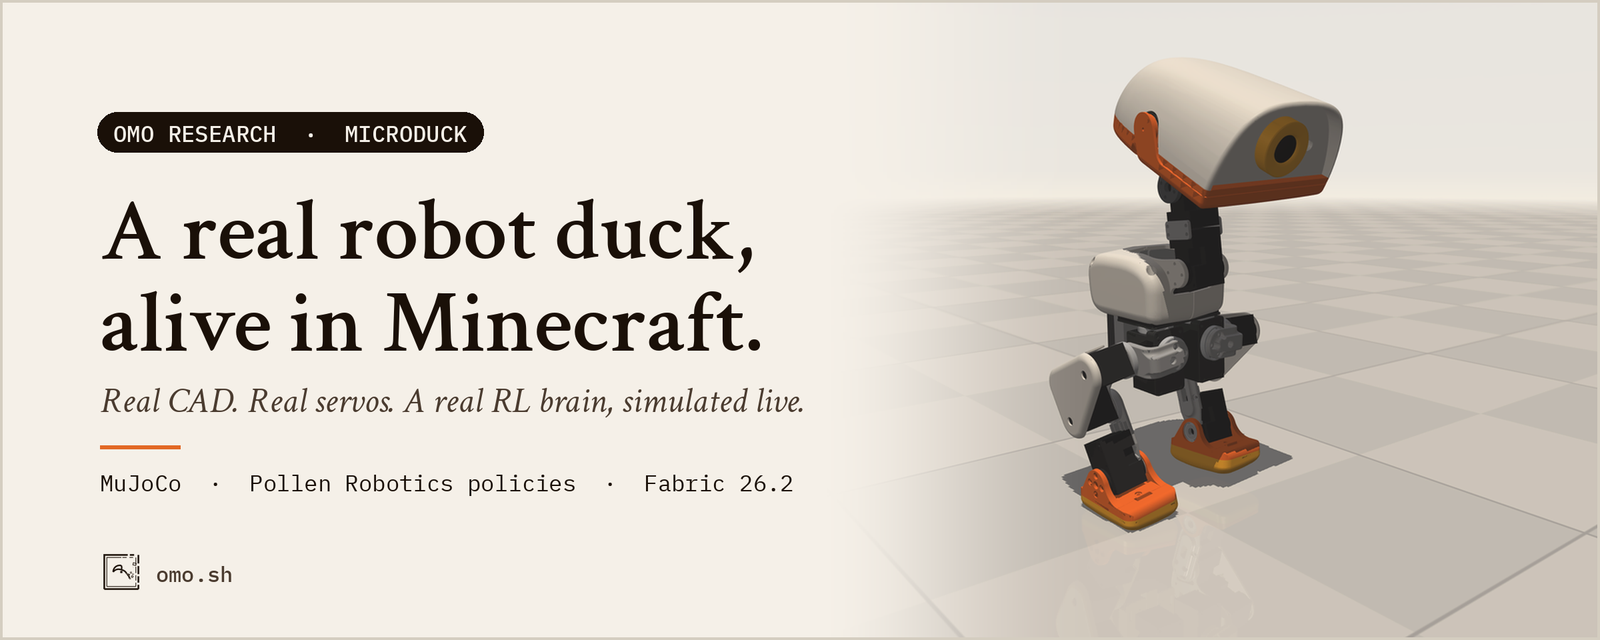
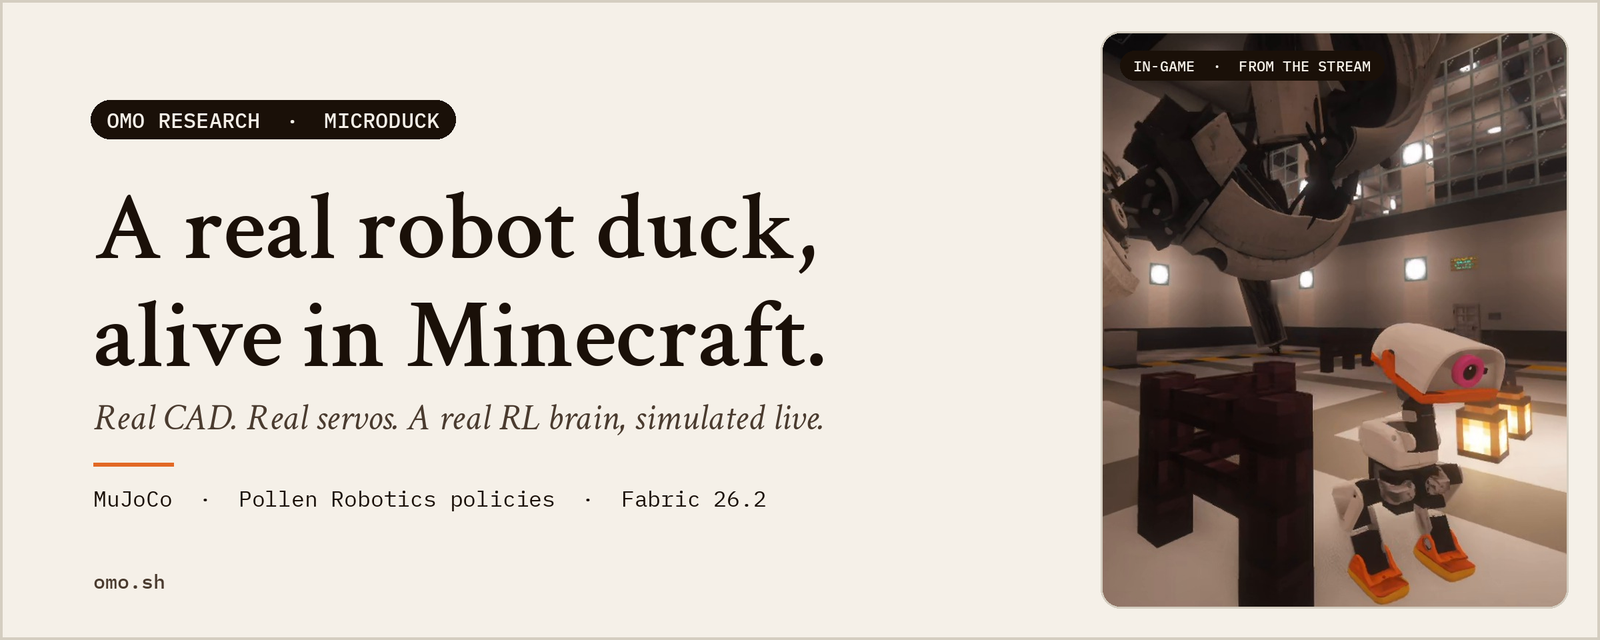
docs: reel-led README with light/dark hero and branded buttons
- hero rebuilt from a real in-game frame (secret-lab stream), with a
  dark-theme variant via <picture>
- 'Straight from the stream': three silent loops of approved reels
  (secret lab, stairs, batcave), each linked to the full reel on the
  v1.0.0 release and to Instagram
- CTA buttons in light and dark variants (omo-space family style)
- sim GIFs moved under 'What it does' and labelled as the bare sim

diff --git a/docs/media/make_hero.py b/docs/media/make_hero.py
@@ -1,14 +1,16 @@
-"""Compose docs/media/hero.png from the real MuJoCo render (still-hero.png).
+"""Compose the README hero (light + dark) from a real in-game frame.
 
-The duck is the offscreen render of the actual Pollen Microduck model; this
-script only crops it, warms it into the omo.sh palette and sets the type.
+The picture is reel-lab-still.jpg: an unedited frame of the Microduck flock in
+the Omo Space duck lab, taken from the stream recording behind the "secret lab"
+reel, cropped clear of the face cam, chat, hotbar and held item, with the
+crosshair removed. This script only frames it and sets the type.
 Fonts: Crimson Text + IBM Plex Mono (SIL OFL). Run from the repo root:
-    python3 docs/media/make_hero.py [path/to/fonts] [path/to/omo-mark.png]
+    python3 docs/media/make_hero.py path/to/fonts [path/to/omo-mark.png]
 """
 import sys
 from pathlib import Path
 
-from PIL import Image, ImageDraw, ImageFont, ImageChops
+from PIL import Image, ImageDraw, ImageFont
 
 HERE = Path(__file__).resolve().parent
 FONTS = Path(sys.argv[1]) if len(sys.argv) > 1 else HERE / "fonts"
@@ -22,75 +24,81 @@ SAND = (196, 184, 168)
 ORANGE = (226, 104, 36)
 
 W, H = 2400, 960
+PAD = 48
+THEMES = {
+    "light": dict(bg=CREAM, fg=INK, sub=BROWN, pill_bg=INK, pill_fg=CREAM, frame=LINE),
+    "dark": dict(bg=(18, 12, 7), fg=CREAM, sub=SAND, pill_bg=CREAM, pill_fg=INK, frame=BROWN),
+}
 
 
 def font(name, size):
     return ImageFont.truetype(str(FONTS / name), size)
 
 
-def main():
-    img = Image.new("RGB", (W, H), CREAM)
+def smooth(t):
+    return t * t * (3 - 2 * t)
 
-    # Real render: crop around the duck and fit it to the right 56 % of the banner.
-    src = Image.open(HERE / "still-hero.png").convert("RGB")
-    crop = src.crop((250, 20, 1110, 720))  # 860 x 700
-    rh = H
-    rw = round(crop.width * rh / crop.height)
-    duck = crop.resize((rw, rh), Image.LANCZOS)
-    # Warm the cool studio sky/floor towards the cream paper (multiply-ish tint).
-    warm = Image.new("RGB", duck.size, (255, 246, 232))
-    duck = ImageChops.multiply(duck, warm)
-    duck = Image.blend(duck, Image.new("RGB", duck.size, CREAM), 0.10)
 
-    x0 = W - rw
-    # Horizontal fade into the paper on the left edge of the render.
-    mask = Image.new("L", duck.size, 255)
-    md = ImageDraw.Draw(mask)
-    fade = 420
-    for x in range(fade):
-        t = x / fade
-        md.line([(x, 0), (x, rh)], fill=round(255 * (t * t * (3 - 2 * t))))
-    img.paste(duck, (x0, 0), mask)
+def build(theme):
+    c = THEMES[theme]
+    img = Image.new("RGB", (W, H), c["bg"])
+
+    # Real in-game frame as a tall photo plate on the right.
+    src = Image.open(HERE / "reel-lab-still.jpg").convert("RGB")
+    ph = H - 2 * PAD
+    pw = round(src.width * ph / src.height)
+    shot = src.resize((pw, ph), Image.LANCZOS)
+    px, py = W - PAD - pw, PAD
+    mask = Image.new("L", (pw, ph), 0)
+    ImageDraw.Draw(mask).rounded_rectangle((0, 0, pw - 1, ph - 1), radius=28, fill=255)
+    img.paste(shot, (px, py), mask)
 
     d = ImageDraw.Draw(img)
-    lx = 150
+    d.rounded_rectangle((px - 1, py - 1, px + pw, py + ph), radius=29, outline=c["frame"], width=3)
 
-    # Eyebrow pill.
-    eb = font("IBMPlexMono-Medium.ttf", 34)
+    # Small honest caption on the photo itself.
+    cap = "IN-GAME  ·  FROM THE STREAM"
+    cf = font("IBMPlexMono-Medium.ttf", 22)
+    cw = d.textlength(cap, font=cf)
+    cx, cy = px + 28, py + 28
+    d.rounded_rectangle((cx, cy, cx + cw + 40, cy + 44), radius=22, fill=INK)
+    d.text((cx + 20, cy + 8), cap, font=cf, fill=CREAM)
+    lx = 140
+
+    eb = font("IBMPlexMono-Medium.ttf", 32)
     label = "OMO RESEARCH  ·  MICRODUCK"
     tw = d.textlength(label, font=eb)
-    d.rounded_rectangle((lx - 4, 168, lx + tw + 44, 228), radius=30, fill=INK)
-    d.text((lx + 20, 178), label, font=eb, fill=CREAM)
+    d.rounded_rectangle((lx - 4, 150, lx + tw + 44, 208), radius=29, fill=c["pill_bg"])
+    d.text((lx + 20, 159), label, font=eb, fill=c["pill_fg"])
 
-    serif = font("CrimsonText-SemiBold.ttf", 132)
-    d.text((lx, 262), "A real robot duck,", font=serif, fill=INK)
-    d.text((lx, 400), "alive in Minecraft.", font=serif, fill=INK)
+    serif = font("CrimsonText-SemiBold.ttf", 146)
+    d.text((lx, 248), "A real robot duck,", font=serif, fill=c["fg"])
+    d.text((lx, 410), "alive in Minecraft.", font=serif, fill=c["fg"])
+    d.text((lx, 590), "Real CAD. Real servos. A real RL brain, simulated live.",
+           font=font("CrimsonText-Italic.ttf", 56), fill=c["sub"])
 
-    d.text((lx, 566), "Real CAD. Real servos. A real RL brain, simulated live.",
-           font=font("CrimsonText-Italic.ttf", 54), fill=BROWN)
+    d.rectangle((lx, 694, lx + 120, 699), fill=ORANGE)
+    d.text((lx, 726), "MuJoCo  ·  Pollen Robotics policies  ·  Fabric 26.2",
+           font=font("IBMPlexMono-Regular.ttf", 33), fill=c["fg"])
 
-    d.rectangle((lx, 668, lx + 120, 673), fill=ORANGE)
-    mono = font("IBMPlexMono-Regular.ttf", 34)
-    d.text((lx, 702), "MuJoCo  ·  Pollen Robotics policies  ·  Fabric 26.2",
-           font=mono, fill=INK)
-
-    # Footer mark + url.
-    fy = 840
+    fy = 852
+    tx = lx
     if MARK and MARK.exists():
-        m = Image.open(MARK).convert("RGBA").resize((64, 64), Image.LANCZOS)
-        img.paste(m, (lx, fy - 14), m)
-        tx = lx + 84
-    else:
-        tx = lx
-    d.text((tx, fy), "omo.sh", font=font("IBMPlexMono-Medium.ttf", 32), fill=BROWN)
+        m = Image.open(MARK).convert("RGBA").resize((60, 60), Image.LANCZOS)
+        if theme == "dark":  # recolour the mark to cream, keep its alpha
+            a = m.split()[3]
+            m = Image.merge("RGBA", (*Image.new("RGB", m.size, CREAM).split(), a))
+        img.paste(m, (lx, fy - 12), m)
+        tx = lx + 80
+    d.text((tx, fy), "omo.sh", font=font("IBMPlexMono-Medium.ttf", 30), fill=c["sub"])
 
-    # Thin paper frame.
-    d.rectangle((0, 0, W - 1, H - 1), outline=LINE, width=4)
-
-    out = img.resize((W // 3 * 2, H // 3 * 2), Image.LANCZOS)  # 1600 x 640
-    out.save(HERE / "hero.png", optimize=True)
-    print("wrote", HERE / "hero.png", out.size)
+    d.rectangle((0, 0, W - 1, H - 1), outline=c["frame"], width=4)
+    out = img.resize((1600, 640), Image.LANCZOS)
+    name = "hero.png" if theme == "light" else "hero-dark.png"
+    out.save(HERE / name, optimize=True)
+    print("wrote", HERE / name, out.size)
 
 
 if __name__ == "__main__":
-    main()
+    for t in THEMES:
+        build(t)

diff --git a/docs/media/make_buttons.py b/docs/media/make_buttons.py
@@ -1,0 +1,68 @@
+"""Render the README call-to-action buttons (light + dark variants).
+
+Same shape and type as the omoresearch/omo-space buttons (IBM Plex Mono on an
+ink pill), plus a dark-theme set so they read on GitHub's dark background.
+    python3 docs/media/make_buttons.py path/to/fonts
+"""
+import sys
+from pathlib import Path
+
+from PIL import Image, ImageDraw, ImageFont
+
+HERE = Path(__file__).resolve().parent
+FONTS = Path(sys.argv[1]) if len(sys.argv) > 1 else HERE / "fonts"
+
+CREAM = (245, 240, 232, 255)
+INK = (26, 16, 8, 255)
+SAND = (196, 184, 168, 255)
+ORANGE = (226, 104, 36, 255)
+H, R, PADX = 86, 16, 52
+
+# name, glyph, label, primary?
+BUTTONS = [
+    ("download", "dl", "Download v1.0.0", True),
+    ("reels", "play", "Watch the reels", True),
+    ("start", None, "Quick start", False),
+    ("omo", None, "omo.sh", False),
+]
+
+
+def glyph(d, kind, x, cy, col):
+    if kind == "play":
+        d.polygon([(x, cy - 12), (x, cy + 12), (x + 21, cy)], fill=col)
+        return 21
+    if kind == "dl":
+        d.rectangle((x + 8, cy - 14, x + 13, cy + 3), fill=col)
+        d.polygon([(x, cy), (x + 21, cy), (x + 10.5, cy + 11)], fill=col)
+        d.rectangle((x, cy + 14, x + 21, cy + 17), fill=col)
+        return 21
+    return 0
+
+
+def render(name, kind, label, primary, theme):
+    f = ImageFont.truetype(str(FONTS / "IBMPlexMono-Medium.ttf"), 31)
+    probe = ImageDraw.Draw(Image.new("RGBA", (1, 1)))
+    tw = probe.textlength(label, font=f)
+    gw = 21 + 26 if kind else 0
+    w = int(PADX * 2 + gw + tw)
+    img = Image.new("RGBA", (w, H), (0, 0, 0, 0))
+    d = ImageDraw.Draw(img)
+    if theme == "light":
+        fill, fg, edge = (INK, CREAM, INK) if primary else (CREAM, INK, INK)
+    else:
+        fill, fg, edge = (CREAM, INK, CREAM) if primary else ((0, 0, 0, 0), CREAM, SAND)
+    d.rounded_rectangle((1, 1, w - 2, H - 2), radius=R, fill=fill, outline=edge, width=3)
+    x = PADX
+    if kind:
+        glyph(d, kind, x, H // 2, ORANGE if kind == "play" else fg)
+        x += gw
+    d.text((x, H // 2), label, font=f, fill=fg, anchor="lm")
+    out = HERE / f"btn-{name}{'' if theme == 'light' else '-dark'}.png"
+    img.save(out, optimize=True)
+    print("wrote", out, img.size)
+
+
+if __name__ == "__main__":
+    for b in BUTTONS:
+        for t in ("light", "dark"):
+            render(*b, t)

diff --git a/README.md b/README.md
@@ -1,6 +1,7 @@
-<p align="center">
-  <img src="docs/media/hero.png" alt="Omo Microduck: a real robot duck, alive in Minecraft" width="100%">
-</p>
+<picture>
+  <source media="(prefers-color-scheme: dark)" srcset="docs/media/hero-dark.png">
+  <img src="docs/media/hero.png" alt="Omo Microduck: a real robot duck, alive in Minecraft. One of the flock in the Omo Space duck lab, an in-game frame from the stream." width="100%">
+</picture>
 
 <h1 align="center">Omo Microduck</h1>
 
@@ -10,13 +11,10 @@
 </p>
 
 <p align="center">
-  <a href="https://github.com/omoresearch/omo-microduck/releases/latest"><b>Download v1.0.0</b></a>
-  &nbsp;·&nbsp;
-  <a href="#quick-start">Quick start</a>
-  &nbsp;·&nbsp;
-  <a href="#how-it-works">How it works</a>
-  &nbsp;·&nbsp;
-  <a href="https://www.omo.sh">omo.sh</a>
+  <a href="https://github.com/omoresearch/omo-microduck/releases/latest"><picture><source media="(prefers-color-scheme: dark)" srcset="docs/media/btn-download-dark.png"><img src="docs/media/btn-download.png" alt="Download v1.0.0" height="43"></picture></a>&nbsp;
+  <a href="#straight-from-the-stream"><picture><source media="(prefers-color-scheme: dark)" srcset="docs/media/btn-reels-dark.png"><img src="docs/media/btn-reels.png" alt="Watch the reels" height="43"></picture></a>&nbsp;
+  <a href="#quick-start"><picture><source media="(prefers-color-scheme: dark)" srcset="docs/media/btn-start-dark.png"><img src="docs/media/btn-start.png" alt="Quick start" height="43"></picture></a>&nbsp;
+  <a href="https://www.omo.sh"><picture><source media="(prefers-color-scheme: dark)" srcset="docs/media/btn-omo-dark.png"><img src="docs/media/btn-omo.png" alt="omo.sh" height="43"></picture></a>
 </p>
 
 <p align="center">
@@ -27,16 +25,22 @@
   <img alt="licence MIT" src="https://img.shields.io/badge/licence-MIT-1a1008?style=flat-square&labelColor=4a3b2f">
 </p>
 
----
+<br>
+
+## Straight from the stream
+
+Three reels cut from our live stream, with nothing re-staged: the stream camera,
+a real play session, the real duck. The loops here are silent; the full reels
+have sound.
 
 <table>
 <tr>
-<td width="50%"><img src="docs/media/duck-walk.gif" alt="The Microduck walking and turning, driven by Pollen's velstand policy"></td>
-<td width="50%"><img src="docs/media/duck-tricks.gif" alt="Community brains: forward roll, hop and dance"></td>
-</tr>
-<tr>
-<td align="center"><sub><b>It walks because it learned to.</b> Pollen's <code>velstand</code> policy, 50 times a second.</sub></td>
-<td align="center"><sub><b>And it learns new tricks.</b> Rolls, hops, dances: community brains from Hugging Face.</sub></td>
+<td width="33%" valign="top"><a href="https://github.com/omoresearch/omo-microduck/releases/download/v1.0.0/microduck-reel-secret-lab.mp4"><img src="docs/media/reel-secret-lab.webp" alt="Reel: the flock in the secret duck lab sits, nods and stands up on command"></a>
+<p><sub><b>The secret lab.</b><br>The flock lives under the base. Ask them to sit, nod and stand, then put plant pots in their way: real physics, real falls.<br><a href="https://github.com/omoresearch/omo-microduck/releases/download/v1.0.0/microduck-reel-secret-lab.mp4">Full reel</a> · <a href="https://www.instagram.com/reel/DfBYnJViObx/">Instagram</a></sub></p></td>
+<td width="33%" valign="top"><a href="https://github.com/omoresearch/omo-microduck/releases/download/v1.0.0/microduck-reel-stairs.mp4"><img src="docs/media/reel-stairs.webp" alt="Reel: the Microduck falls over on Minecraft stairs"></a>
+<p><sub><b>Then it met Minecraft stairs.</b><br>It learned to walk in simulation. It can't climb stairs, so down it goes, and <code>!duck here</code> brings it back.<br><a href="https://github.com/omoresearch/omo-microduck/releases/download/v1.0.0/microduck-reel-stairs.mp4">Full reel</a> · <a href="https://www.instagram.com/reel/DfA026xAQVB/">Instagram</a></sub></p></td>
+<td width="33%" valign="top"><a href="https://github.com/omoresearch/omo-microduck/releases/download/v1.0.0/microduck-reel-batcave.mp4"><img src="docs/media/reel-batcave.webp" alt="Reel: down through a hidden cave into the white lab, where the Microduck walks up to the camera"></a>
+<p><sub><b>Down through the cave.</b><br>Nobody knows the lab is there. Drop through the cave, and the duck walks out to meet you.<br><a href="https://github.com/omoresearch/omo-microduck/releases/download/v1.0.0/microduck-reel-batcave.mp4">Full reel</a> · <a href="https://www.instagram.com/reel/DfA1AtICNx0/">Instagram</a></sub></p></td>
 </tr>
 </table>
 
@@ -89,6 +93,19 @@ they have a body, a place and a voice. Omo Microduck is that idea at duck scale.
 | **Chat-controlled** | `!duck walk`, `!duck follow`, `!duck zippy trick roulade`, `!ducks sit`. Commands are handled client-side and never sent to the server. |
 | **Stream-ready** | Twitch viewers can drive the duck through `"from":"twitch:<user>"` commands. They can walk it and trigger tricks; they cannot reset, spawn or remove ducks. |
 | **Talks back** *(optional)* | With Simple Voice Chat, hold push-to-talk and the duck you are looking at answers from its own body, in positional audio, with captions. |
+
+### The same brains, without Minecraft
+
+<table>
+<tr>
+<td width="50%"><img src="docs/media/duck-walk.gif" alt="The Microduck walking and turning in the bare MuJoCo sim, driven by Pollen's velstand policy"></td>
+<td width="50%"><img src="docs/media/duck-tricks.gif" alt="Community brains in the bare MuJoCo sim: forward roll, hop and dance"></td>
+</tr>
+<tr>
+<td align="center"><sub><b>It walks because it learned to.</b> Pollen's <code>velstand</code> policy, 50 times a second.</sub></td>
+<td align="center"><sub><b>And it learns new tricks.</b> Rolls, hops, dances: community brains from Hugging Face.</sub></td>
+</tr>
+</table>
 
 <p align="center">
   <img src="docs/media/render-trio.png" alt="The in-game Microduck model: three-quarter view, side view and head close-up" width="90%">
